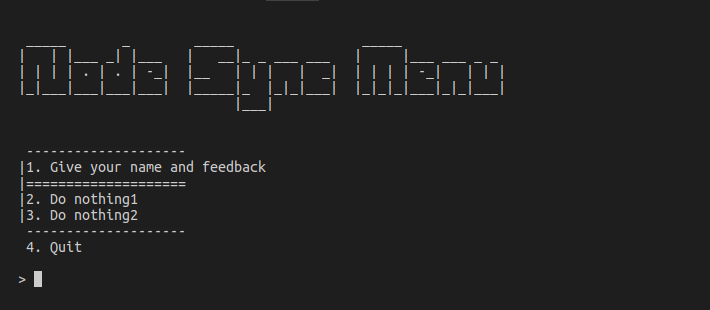
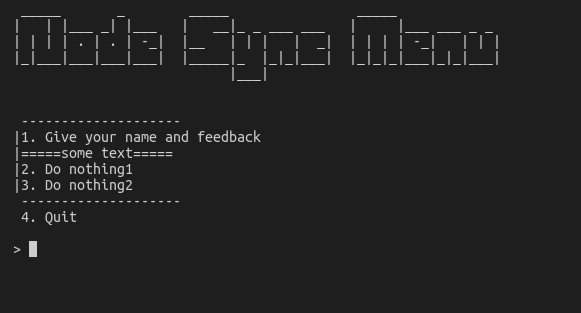
adding text to delimiter

diff --git a/src/node-sync-menu.js b/src/node-sync-menu.js
@@ -15,48 +15,44 @@ class Menu {
         this.delimiters = [];
         this.quitNum = 0;
     }
-
+    /**
+     * Changing title
+     * @param {string} newTitle 
+     */
     changeTitle(newTitle) {
         this.title = newTitle;
     }
 
+    /**
+     * Adding items
+     * @param {string} title 
+     * @param {async function} callback 
+     */
     async addItem(title, callback) {
         this.items.push({title: title, callback: callback});
         this.quitNum = this.items.length + 1;
     }
 
-    async addDelim(character, num=20, row=null) {
+    /**
+     * Adding delimiter
+     * @param {single character} character 
+     * @param {int} num 
+     * @param {string} text 
+     * @param {int} row 
+     */
+    async addDelim(character, num=20, text="", row=null) {
         if (row === null) {
-            this.delimiters.push({character: character, num: num, row: this.items.length});
+            this.delimiters.push({character: character, num: num, row: this.items.length, text: text});
         }
         else {
-            this.delimiters.push({character: character, num: num, row: row});
+            this.delimiters.push({character: character, num: num, row: row, text: text});
         }
         this.quitNum = this.items.length + 1;
     }
-
-    async _printRows() {
-        let delimIndex = 0;
-        for (let i = 0; i < this.items.length; i++) {
-            const element = this.items[i];
-            if (this.delimiters[delimIndex] !== undefined && i === this.delimiters[delimIndex].row) {
-                console.log('|' + this.delimiters[delimIndex].character.repeat(this.delimiters[delimIndex].num));
-                delimIndex++;
-            }
-            console.log('|' + `${i+1}. ${element.title}`);
-        }
-    }
     
-    async showMenu() {
-        console.log('\x1Bc');
-        console.log(this.title + "\n");
-        console.log(" " + "-".repeat(20));
-        await this._printRows();
-        console.log(" " + "-".repeat(20));
-        console.log(" " + `${this.items.length + 1}. Quit`);
-        console.log('');
-    }
-
+    /**
+     * Starting menu
+     */
     async start() {
         let end = false;
         while(!end) {
@@ -70,6 +66,44 @@ class Menu {
             readline.question("Press Enter to continue");
         }
     }
+    
+    async _printRows() {
+        let delimIndex = 0;
+        for (let i = 0; i < this.items.length; i++) {
+            const element = this.items[i];
+            if (this.delimiters[delimIndex] !== undefined && i === this.delimiters[delimIndex].row) {
+                this._printDelim(this.delimiters[delimIndex]);
+                delimIndex++;
+            }
+            console.log('|' + `${i+1}. ${element.title}`);
+        }
+    }
+    
+    _printDelim(delimiterObj) {
+        let textToPrint = "";
+        if (delimiterObj.num - 1 <= delimiterObj.text.length && delimiterObj.text.length !== 0) {
+            textToPrint = delimiterObj.text;
+        } 
+        else if (delimiterObj.text.length) {
+            let numChars = delimiterObj.num - delimiterObj.text.length;
+            textToPrint = delimiterObj.character.repeat(numChars/2) + delimiterObj.text + delimiterObj.character.repeat(numChars/2);
+        }
+        else {
+            textToPrint = delimiterObj.character.repeat(delimiterObj.num);
+        }
+        console.log('|' + textToPrint);
+    }
+
+    async showMenu() {
+        console.log('\x1Bc');
+        console.log(this.title + "\n");
+        console.log(" " + "-".repeat(20));
+        await this._printRows();
+        console.log(" " + "-".repeat(20));
+        console.log(" " + `${this.items.length + 1}. Quit`);
+        console.log('');
+    }
+
 
     async dispatch(choice) {
         await this.items[choice].callback();

diff --git a/test/test.js b/test/test.js
@@ -1,6 +1,8 @@
 const menu = require('../src/node-sync-menu');
 const readline = require('readline-sync');
 
+
+
 menu.addItem("Give your name and feedback", async () => {
     let name = readline.question("What is your name?[unknown]: ", {
         defaultInput: "unknown"
@@ -10,7 +12,7 @@ menu.addItem("Give your name and feedback", async () => {
     });
     console.log(name + " commnet: " + comment);
 });
-menu.addDelim("=");
+menu.addDelim("=", 20, "some text");
 menu.addItem("Do nothing1", async () => {});
 menu.addItem("Do nothing2", async () => {});
 menu.start();

diff --git a/README.md b/README.md
@@ -6,7 +6,7 @@ Create simple sync console menu in nodejs
 How to use it:
 
 ```javascript
-const menu = require('node-sync-menu');
+const menu = require('../src/node-sync-menu');
 const readline = require('readline-sync');
 
 menu.addItem("Give your name and feedback", async () => {
@@ -18,8 +18,39 @@ menu.addItem("Give your name and feedback", async () => {
     });
     console.log(name + " commnet: " + comment);
 });
-menu.addDelim("=");
+menu.addDelim("=", 20, "some text");
 menu.addItem("Do nothing1", async () => {});
 menu.addItem("Do nothing2", async () => {});
 menu.start();
+```
+
+Menu Methods:
+```javascript
+/**
+     * Changing title
+     * @param {string} newTitle 
+     */
+    changeTitle(newTitle)
+
+    /**
+     * Adding items
+     * @param {string} title 
+     * @param {async function} callback 
+     */
+    async addItem(title, callback)
+    
+    /**
+     * Adding delimiter
+     * @param {single character} character 
+     * @param {int} num default 20
+     * @param {string} text default empty
+     * @param {int} row default null
+     */
+
+    async addDelim(character, num=20, text="", row=null) 
+
+    /**
+     * Starting menu
+     */
+    async start() {
 ```
